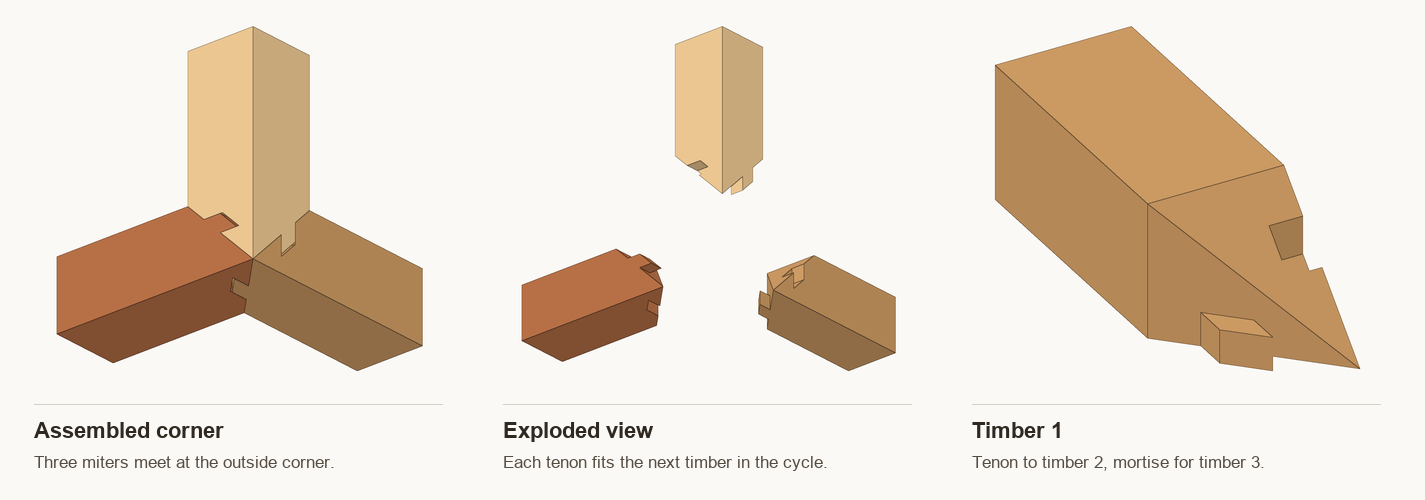
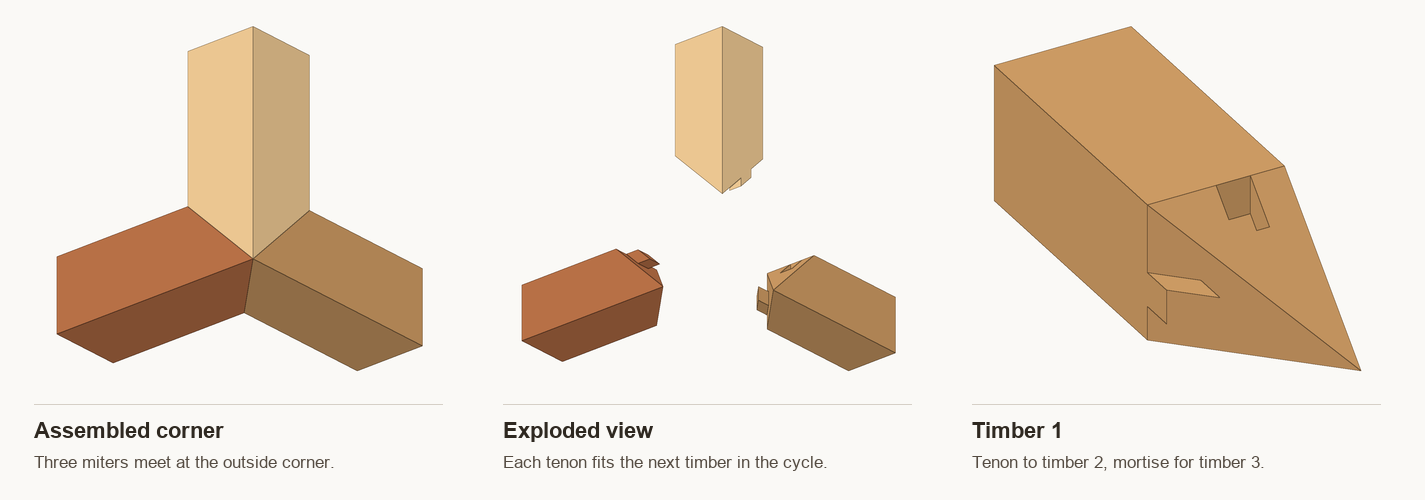
Lay out Mitsudomoe tenons from the shared outside seam and face

diff --git a/tests/joints/corner/test_mitsudomoe_joint.py b/tests/joints/corner/test_mitsudomoe_joint.py
@@ -11,7 +11,8 @@ from kumiki.example_shavings import create_canonical_example_tri_corner_timbers
 
 
 @pytest.mark.parametrize("mirrored", [False, True])
-def test_cyclic_miters_tenons_and_mortises(mirrored):
+@pytest.mark.parametrize("edge_position, expected_edge", [(None, 6), (4, 4)])
+def test_cyclic_miters_tenons_and_mortises(mirrored, edge_position, expected_edge):
     placement = Transform(create_v3(7, -3, 2), Orientation.from_axis_angle(create_v3(1, 2, 3), degrees(37)))
     axes = [create_v3(1, 0, 0), create_v3(0, 1, 0), create_v3(0, 0, -1 if mirrored else 1)]
     ends = [TimberEnd.BOTTOM, TimberEnd.TOP, TimberEnd.BOTTOM]
@@ -19,16 +20,19 @@ def test_cyclic_miters_tenons_and_mortises(mirrored):
     for i, end in enumerate(ends):
         width, height = axes[(i + 1) % 3], axes[(i + 2) % 3]
         # Use unequal stock and move the rough ends away from the finished corner.
-        bottom = width * (3 + i) + height * (4 + i) + axes[i] * (13 if end == TimberEnd.TOP else -2)
-        timber = create_timber(15, create_v2(6 + 2*i, 8 + 2*i), bottom,
+        size = create_v2(10 - 2*i, 8 + 2*i)
+        bottom = width * (size[0]/2) + height * (size[1]/2) + axes[i] * (13 if end == TimberEnd.TOP else -2)
+        timber = create_timber(15, size, bottom,
                                -axes[i] if end == TimberEnd.TOP else axes[i], width, f"member{i}")
         timbers.append(replace(timber, transform=placement * timber.transform))
 
     arrangement = TriCornerArrangement(*timbers, *ends)
     assert arrangement.locate_outside_corner_global().equals(placement.position)
     assert cut_mitsudomoe_joint is cut_rock_paper_scissor_joint_on_face_aligned_timbers
-    joint = cut_mitsudomoe_joint(arrangement, tenon_position_from_outside=2, tenon_width=1,
-                                tenon_height=1, tenon_length=1, mortise_extra_depth=0.5)
+    joint = cut_mitsudomoe_joint(
+        arrangement, tenon_position_from_outer_face=0.75, tenon_width=1.25, tenon_height=1,
+        tenon_length=1, mortise_extra_depth=0.5, tenon_position_from_outer_edge=edge_position,
+    )
     assert set(joint.cuttings) == {"timber1", "timber2", "timber3"}
     assert not joint.jointAccessories
     solids = []
@@ -45,17 +49,20 @@ def test_cyclic_miters_tenons_and_mortises(mirrored):
 
     for i in range(3):
         receiver, third = (i + 1) % 3, (i + 2) % 3
-        # Coordinates are along donor grain, receiver grain, then inward from the outside face.
+        middle = expected_edge - 0.5
+        # Coordinates run along donor grain, receiver grain, then inward from their shared face.
         for x, y, z, owners in [
-            (2.7, 2.5, 0.4, [i]),         # donor behind the miter
-            (1.6, 2.5, 0.4, [i]),         # tenon near its tip
-            (1.4, 2.5, 0.4, []),          # clearance beyond the tip
-            (0.9, 2.5, 0.4, [receiver]),  # wood beyond the mortise floor
-            (1.5, 1.9, 0.4, [receiver]),  # outside the near side
-            (2.5, 3.1, 0.4, [receiver]),  # outside the far side
-            (1.7, 2.5, 1.1, [receiver]),  # below the tenon
-            (1.7, 2.5, 3.2, [third]),     # across the second miter
-            (-0.1, 0.5, 0.2, []),        # beyond the shared end
+            (middle + 0.2, middle, 1, [i]),          # donor behind the miter
+            (middle - 0.9, middle, 1, [i]),          # tenon near its tip
+            (middle - 1.1, middle, 1, []),           # clearance beyond the tip
+            (middle - 1.6, middle, 1, [receiver]),   # wood beyond the mortise floor
+            (middle - 1, middle - 0.6, 1, [receiver]),  # beyond the tenon height
+            (middle - 0.2, middle + 0.6, 1, [receiver]),  # past the edge position
+            (middle - 0.9, middle, 0.7, [receiver]),  # wood toward the shared outer face
+            (middle - 0.9, middle, 1.95, [i]),        # inside the far side of the tenon
+            (middle - 0.9, middle, 2.05, [receiver]), # wood beyond the tenon width
+            (1, middle, middle + 1, [third]),         # across the second miter
+            (-0.1, 0.5, 0.2, []),                    # beyond the shared end
         ]:
             point = placement.local_to_global(axes[i]*x + axes[receiver]*y + axes[third]*z)
             assert [j for j, solid in enumerate(solids)
@@ -78,6 +85,13 @@ def test_requires_three_perpendicular_face_aligned_timbers_with_coincident_outsi
     shifted = replace(timber.transform, position=timber.transform.position + create_v3(inches(1), 0, 0))
     with pytest.raises(AssertionError, match="Outside long edges"):
         cut_basic_mitsudomoe_joint(replace(arrangement, timber3=replace(timber, transform=shifted)))
+
+
+@pytest.mark.parametrize("position", [inches(3), inches(3.25)])
+def test_tenon_width_must_leave_wood_beyond_outer_face_offset(position):
+    arrangement = create_canonical_example_tri_corner_timbers()
+    with pytest.raises(AssertionError, match="greater than tenon_position_from_outer_face"):
+        cut_mitsudomoe_joint(arrangement, position, inches(1), inches(0.5), inches(1), 0)
 
 
 @pytest.mark.parametrize("extra_depth", [0, inches(1, 8)])

diff --git a/kumiki/joints/workshop/corner/mitsudomoe_joint.py b/kumiki/joints/workshop/corner/mitsudomoe_joint.py
@@ -13,43 +13,57 @@ from ..shavings.relief import warn_if_arrangement_timbers_imperfect
 
 def cut_rock_paper_scissor_joint_on_face_aligned_timbers(
     arrangement: TriCornerArrangement,
-    tenon_position_from_outside: Numeric,
+    tenon_position_from_outer_face: Numeric,
     tenon_width: Numeric,
     tenon_height: Numeric,
     tenon_length: Numeric,
     mortise_extra_depth: Numeric,
+    tenon_position_from_outer_edge: Numeric | None = None,
 ) -> Joint:
     """Cut three 45° miters and fit each timber's tenon into the next timber in order.
 
-    Measure position and width from the donor's outside long edge along the receiving
-    timber's axis, away from the corner. Measure height inward from their common outside
-    face. Measure length from the miter along the donor's grain toward its joint end.
+    Start on the outside seam where the donor and receiver meet. The distance from
+    the common corner to this mark, projected along the receiver's grain, is
+    `tenon_position_from_outer_edge`. None uses the smallest cross-section dimension
+    of the three timbers. Lay out height from the mark back toward the corner.
+    Inset the tenon by `tenon_position_from_outer_face` from the pair's shared outside
+    face and measure width farther inward.
+    Measure length from the miter along the donor's grain toward its joint end.
     The mortise extends another `mortise_extra_depth` in that direction.
     """
     corner_global = arrangement.locate_outside_corner_global()
     warn_if_arrangement_timbers_imperfect(arrangement)
     members = arrangement.members
     axes_global = [-timber.get_face_direction_global(end) for timber, end in members]
-    near = tenon_position_from_outside
-    far = near + tenon_width
+    smallest_side = min(min(timber.size) for timber, _ in members)
+    edge = smallest_side if tenon_position_from_outer_edge is None else tenon_position_from_outer_edge
+    near = edge - tenon_height
+    face_start = tenon_position_from_outer_face
+    face_end = face_start + tenon_width
     assert tenon_width > 0 and tenon_height > 0 and tenon_length > 0, "Tenon dimensions must be positive"
     assert mortise_extra_depth >= 0, "Mortise extra depth must be nonnegative"
-    assert safe_compare(tenon_height, near, Comparison.LE), "Tenon height must fit on the donor-receiver miter"
+    assert face_start >= 0, "Tenon position from outer face must be nonnegative"
+    assert safe_compare(face_end, smallest_side, Comparison.LT), (
+        "Each timber dimension must be greater than tenon_position_from_outer_face + tenon_width"
+    )
+    assert safe_compare(edge, smallest_side, Comparison.LE), "Tenon position from outer edge must fit all mating faces"
+    assert safe_compare(face_end, near, Comparison.LE), "Tenon width and height must fit on the donor-receiver miter"
     assert safe_compare(tenon_length, near, Comparison.LE), "Tenon length must fit before the outside face"
 
     def tongue_profile(donor: int, stock: TimberLike, depth: Numeric, label: str) -> ConvexPolygonExtrusion:
-        """Extrude the tongue profile through the tenon height in stock-local space."""
+        """Extrude the tongue profile across its width in stock-local space."""
         along_global = axes_global[donor]
         across_global = axes_global[(donor + 1) % 3]
         normal_global = cross_product(along_global, across_global)
-        height = tenon_height * safe_dot_product(normal_global, axes_global[(donor + 2) % 3])
+        inward_sign = safe_dot_product(normal_global, axes_global[(donor + 2) % 3])
+        caps = (inward_sign * face_start, inward_sign * face_end)
         profile_global = Transform(corner_global, compute_timber_orientation(normal_global, along_global))
         return ConvexPolygonExtrusion(
             # Carry the root behind the miter to the cross-section at the far edge.
-            points=[create_v2(far, near), create_v2(far, far),
-                    create_v2(far - depth, far), create_v2(near - depth, near)],
+            points=[create_v2(edge, near), create_v2(edge, edge),
+                    create_v2(edge - depth, edge), create_v2(near - depth, near)],
             transform=profile_global.to_local_transform(stock.transform),
-            start_distance=min(0, height), end_distance=max(0, height),
+            start_distance=min(caps), end_distance=max(caps),
             label=CutCSGLabel(label),
         )
 
@@ -57,11 +71,6 @@ def cut_rock_paper_scissor_joint_on_face_aligned_timbers(
     for i, (timber, end) in enumerate(members):
         following = (i + 1) % 3
         previous = (i - 1) % 3
-        receiver = members[following][0]
-        miter_width = min(timber.get_size_in_direction_3d(axes_global[following]),
-                          receiver.get_size_in_direction_3d(axes_global[i]))
-        assert safe_compare(far, miter_width, Comparison.LE), "Tenon width and position must fit the mating faces"
-
         corner_local = timber.transform.global_to_local(corner_global)
 
         def miter_plane(neighbor_global: Direction3D, label: str) -> HalfSpace:

diff --git a/patterns/corner/mitsudomoe_joint_patterns.py b/patterns/corner/mitsudomoe_joint_patterns.py
@@ -12,9 +12,12 @@ from kumiki.example_shavings import create_canonical_example_tri_corner_timbers
 pattern_folders(KUMIKI_PATTERN_FOLDERS)
 
 TENONS = kiwari(
-    position_from_outside=kiwari.length(inches(2), minimum=inches(1.5), maximum=inches(2.5)),
-    width=kiwari.length(inches(1), minimum=inches(0.5), maximum=inches(1.5)),
-    height=kiwari.length(inches(1), minimum=inches(0.5), maximum=inches(1.5)),
+    position_from_outer_face=kiwari.length(inches(1), minimum=inches(0.5), maximum=inches(1.25),
+                                          about="Inset from the shared outside face to the tenon"),
+    position_from_outer_edge=kiwari.length(optional=True, minimum=inches(3.5), maximum=inches(4),
+                                          about="Along the receiver from the corner to the far edge of the tenon"),
+    width=kiwari.length(inches(1), minimum=inches(0.5), maximum=inches(1.25)),
+    height=kiwari.length(inches(1), minimum=inches(0.5), maximum=inches(1)),
     length=kiwari.length(inches(1), minimum=inches(0.5), maximum=inches(1.5)),
     mortise_extra_depth=kiwari.length(inches(1, 8), minimum=0, maximum=inches(0.5)),
 )
@@ -25,7 +28,8 @@ def mitsudomoe_joint(k: Optional[Kiwari] = None) -> Joint:
     k = TENONS.resolve(k)
     return cut_mitsudomoe_joint(
         create_canonical_example_tri_corner_timbers(),
-        tenon_position_from_outside=k.length("position_from_outside"),
+        tenon_position_from_outer_face=k.length("position_from_outer_face"),
+        tenon_position_from_outer_edge=k.length("position_from_outer_edge"),
         tenon_width=k.length("width"), tenon_height=k.length("height"),
         tenon_length=k.length("length"), mortise_extra_depth=k.length("mortise_extra_depth"),
     )

diff --git a/kumiki/joints/workshop/basic_joints.py b/kumiki/joints/workshop/basic_joints.py
@@ -67,7 +67,7 @@ def cut_basic_mitsudomoe_joint(arrangement: TriCornerArrangement) -> Joint:
     """Size the three tenons from the smallest cross-section dimension at the corner."""
     side = min(min(timber.size) for timber, _ in arrangement.members)
     return cut_mitsudomoe_joint(
-        arrangement, tenon_position_from_outside=side / 2, tenon_width=side / 4,
+        arrangement, tenon_position_from_outer_face=side / 4, tenon_width=side / 4,
         tenon_height=side / 4, tenon_length=side / 4, mortise_extra_depth=side / 32,
     )
 

diff --git a/docs/api_cheat_sheet.md b/docs/api_cheat_sheet.md
@@ -85,7 +85,7 @@ Example usage of joints can be found in the `patterns` folder in source, you can
 
 | Basic joint signature | When to use |
 |---|---|
-| `cut_basic_mitsudomoe_joint(arrangement: TriCornerArrangement) -> Joint` | Three perpendicular members with a common outside corner. Each tenon fits the next member. Use `cut_mitsudomoe_joint` to set the tenon dimensions and mortise clearance. [Joint preview](assets/mitsudomoe-joint.png) |
+| `cut_basic_mitsudomoe_joint(arrangement: TriCornerArrangement) -> Joint` | Three perpendicular members with a common outside corner. Each tenon fits the next member. In `cut_mitsudomoe_joint`, `tenon_position_from_outer_face` sets the inset from the shared outside face. `tenon_position_from_outer_edge=None` uses the smallest cross-section dimension of the three timbers. [Joint preview](assets/mitsudomoe-joint.png) |
 | `cut_basic_plain_miter_joint(arrangement: CornerJointTimberArrangement) -> Joint` |Mitered frame corners. |
 | `cut_basic_plain_miter_joint_on_face_aligned_timbers(arrangement: CornerJointTimberArrangement) -> Joint` | |
 | `cut_basic_tongue_and_fork_corner_joint_on_plane_aligned_timbers(arrangement: CornerJointTimberArrangement, tongue_thickness: Optional[Numeric]=None, tongue_position: Numeric=scalar(0)) -> Joint` | |
